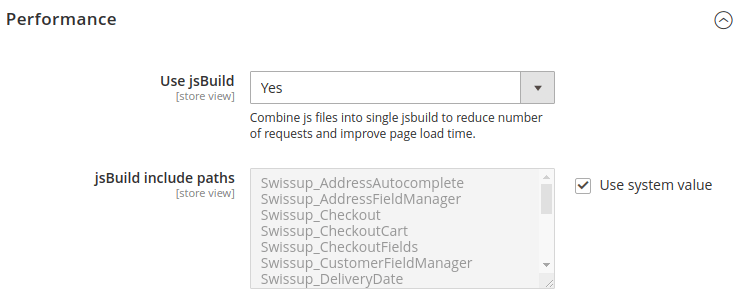
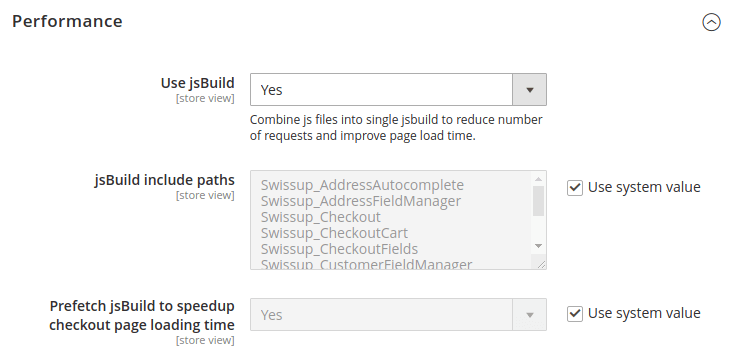
Firecheckout 1.26.0

diff --git a/m2/extensions/firecheckout/configuration.md b/m2/extensions/firecheckout/configuration.md
@@ -64,6 +64,15 @@ Layout screenshots:
 
 {% include gallery.html images=site.data.gallery.m2.firecheckout.configuration.layout class="scroll phone-up-1 tablet-up-3 photoswipe" %}
 
+#### Move Email to the Separate Step
+
+> Available since v1.26.0
+
+Ability to move email field to the separate "Email" step. This option is available
+when using 1-column Multistep layout only.
+
+{% include gallery.html images=site.data.gallery.m2.firecheckout.configuration.move-email class="scroll phone-up-1 tablet-up-3 photoswipe" %}
+
 #### Place Order Button Position
 
 Ability change "Purchase" button position:
@@ -221,6 +230,7 @@ Option  | Description
 --------|------------
 Use jsBuild | Combine checkout-related js files into single jsbuild to reduce number of requests and improve page load time.
 jsBuild include paths| List of modules to process
+Prefetch jsBuild | When enabled, checkout page and jsBuild will be prefetched when customer will add a product to the cart.
 
 #### Next up
 {:.no_toc}

diff --git a/m2/extensions/firecheckout/changelog.md b/m2/extensions/firecheckout/changelog.md
@@ -8,6 +8,22 @@ category: Firecheckout
 
 # Changelog
 
+### Version 1.26.0
+
+> Jun 2, 2021
+
+ -  Added ability to
+    [move email and password fields](/m2/extensions/firecheckout/configuration/#move-email-to-the-separate-step)
+    to the separate checkout step.
+ -  Decreased checkout page load time for the first-time visitors. Prefetch is used
+    to gain additional performance. [View config](/m2/extensions/firecheckout/configuration/#performance-settings-section)
+ -  Improved loader when waiting for email address validation and decreased timeout
+    to wait before email validation.
+ -  Fixed possible missing agreements above place order button when button is moved
+    below payment section in 1-column layout.
+ -  Fixed missing place order button below payment section on small tablet devices.
+ -  Small CSS fixes.
+
 ### Version 1.25.8
 
 > Feb 26, 2021
